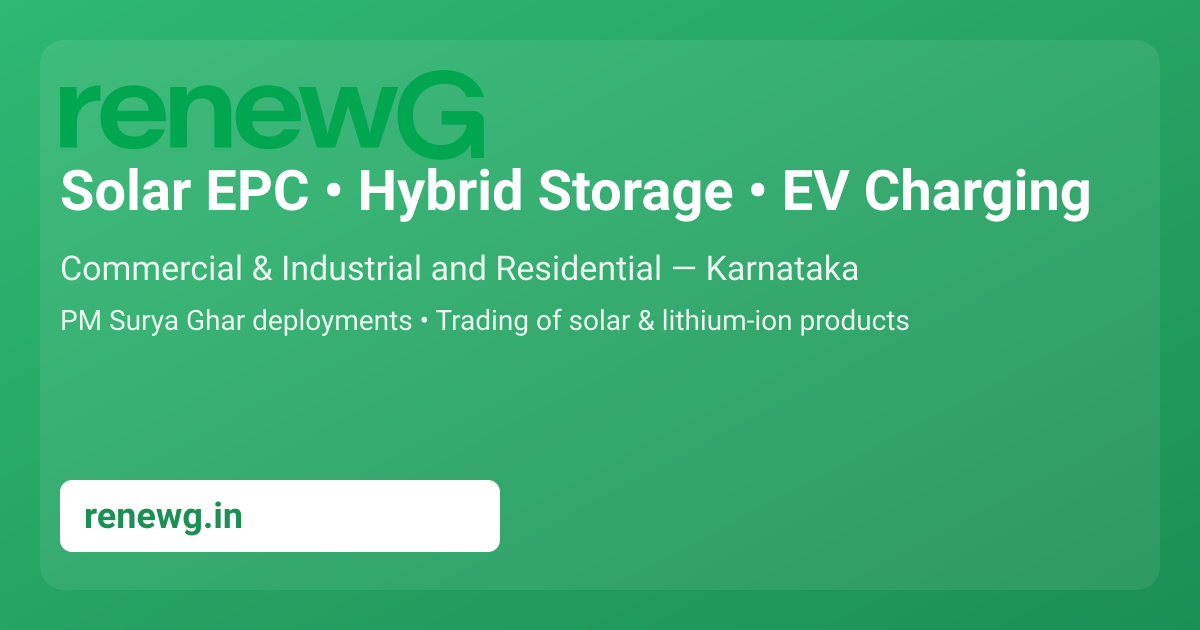
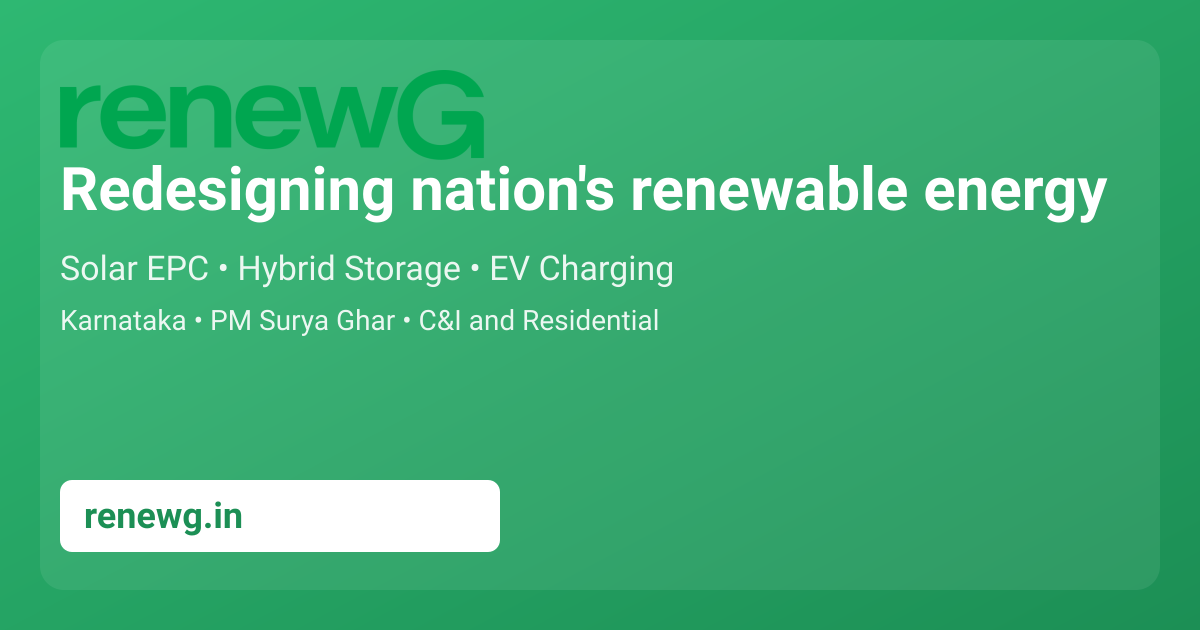
Copy update: 'Redesigning nation's renewable energy' in hero + OG titles; regenerate OG image

Changed region(s): [[0.0308, 0.2413, 0.925, 0.3619], [0.0308, 0.4825, 0.7708, 0.5429], [0.0308, 0.3921, 0.7092, 0.4524]]

diff --git a/renewg-site/index.html b/renewg-site/index.html
@@ -14,7 +14,7 @@
 
     <!-- Open Graph / Facebook -->
     <meta property="og:type" content="website" />
-    <meta property="og:title" content="RenewG | Solar & Energy Solutions" />
+    <meta property="og:title" content="RenewG | Redesigning nation's renewable energy" />
     <meta property="og:description" content="Solar EPC, hybrid storage, EV charging, and product trading across Karnataka." />
     <meta property="og:url" content="https://renewg.in/" />
     <meta property="og:image" content="https://renewg.in/og-image.png" />
@@ -23,7 +23,7 @@
 
     <!-- Twitter -->
     <meta name="twitter:card" content="summary_large_image" />
-    <meta name="twitter:title" content="RenewG | Solar & Energy Solutions" />
+    <meta name="twitter:title" content="RenewG | Redesigning nation's renewable energy" />
     <meta name="twitter:description" content="Solar EPC, hybrid storage, EV charging, and product trading across Karnataka." />
     <meta name="twitter:image" content="https://renewg.in/og-image.png" />
     <link rel="icon" type="image/png" href="/renewg-logo.png" />

diff --git a/renewg-site/src/App.jsx b/renewg-site/src/App.jsx
@@ -194,7 +194,7 @@ export default function App() {
           <div className="container hero-layout">
             <div className="hero-copy">
               <span className="hero-badge">Karnataka • Solar EPC • Energy Innovation</span>
-              <h1 id="hero-title">Powering Karnataka&apos;s transition to clean, resilient energy</h1>
+              <h1 id="hero-title">Redesigning nation's renewable energy</h1>
               <p>
                 RenewG delivers solar EPC in Karnataka — on‑grid, hybrid, and off‑grid systems — plus EV charging and lithium‑ion
                 storage. We support C&amp;I and residential clients, including PM Surya Ghar deployments, with compliant design and
